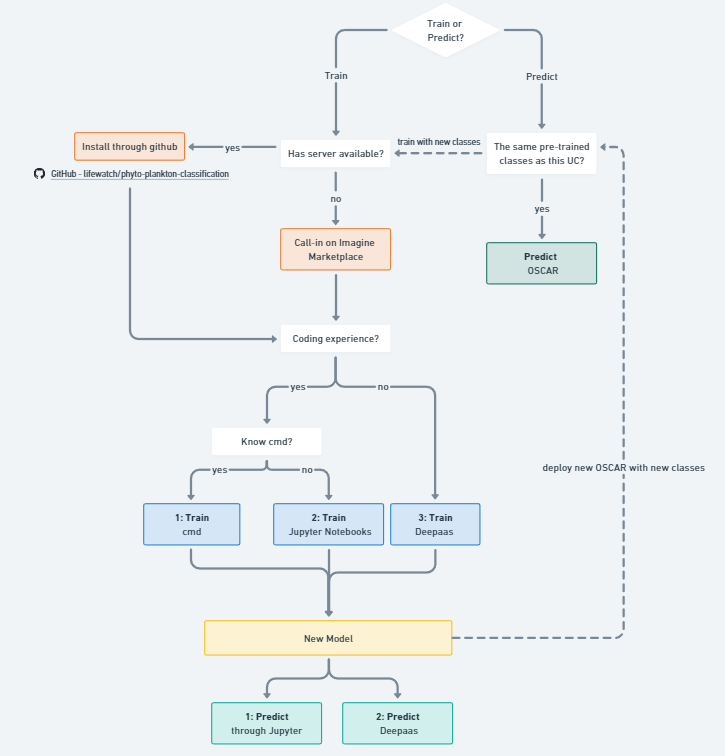
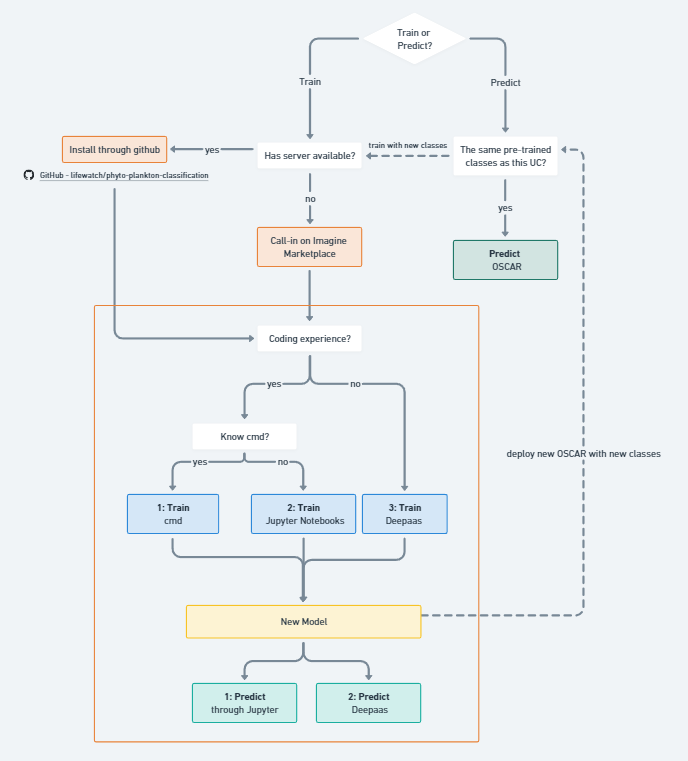
update flow

diff --git a/README.md b/README.md
@@ -2,7 +2,6 @@ AI4OS/DEEP Open Catalogue: Image classification
 =========================================
 [![Build Status](https://jenkins.services.ai4os.eu/buildStatus/icon?job=AI4OS-hub/phyto-plankton-classification/main)](https://jenkins.services.ai4os.eu/job/AI4OS-hub/job/phyto-plankton-classification/job/main/)
 
-![Flowchart: Phytoplankton Classifier Process](data/Flowchart_github.png)
 
 
 **Author:** [Ignacio Heredia & Wout Decrop](https://github.com/IgnacioHeredia) (CSIC & VLIZ)
@@ -15,6 +14,9 @@ received funding from the European Union’s Horizon 2020 research and innovatio
 This is a plug-and-play tool to train and evaluate an phytoplankton classifier on a custom dataset using deep neural networks.
 
 You can find more information about it in the [iMagine Marketplace](https://dashboard.cloud.imagine-ai.eu/marketplace/).
+
+**Flowchart:** The flow inside github can be found within the orange frame
+![Flowchart: Phytoplankton Classifier Process](data/Flowchart_github.png)
 
 **Table of contents**
 1. [Installing this module](#installing-this-module)
